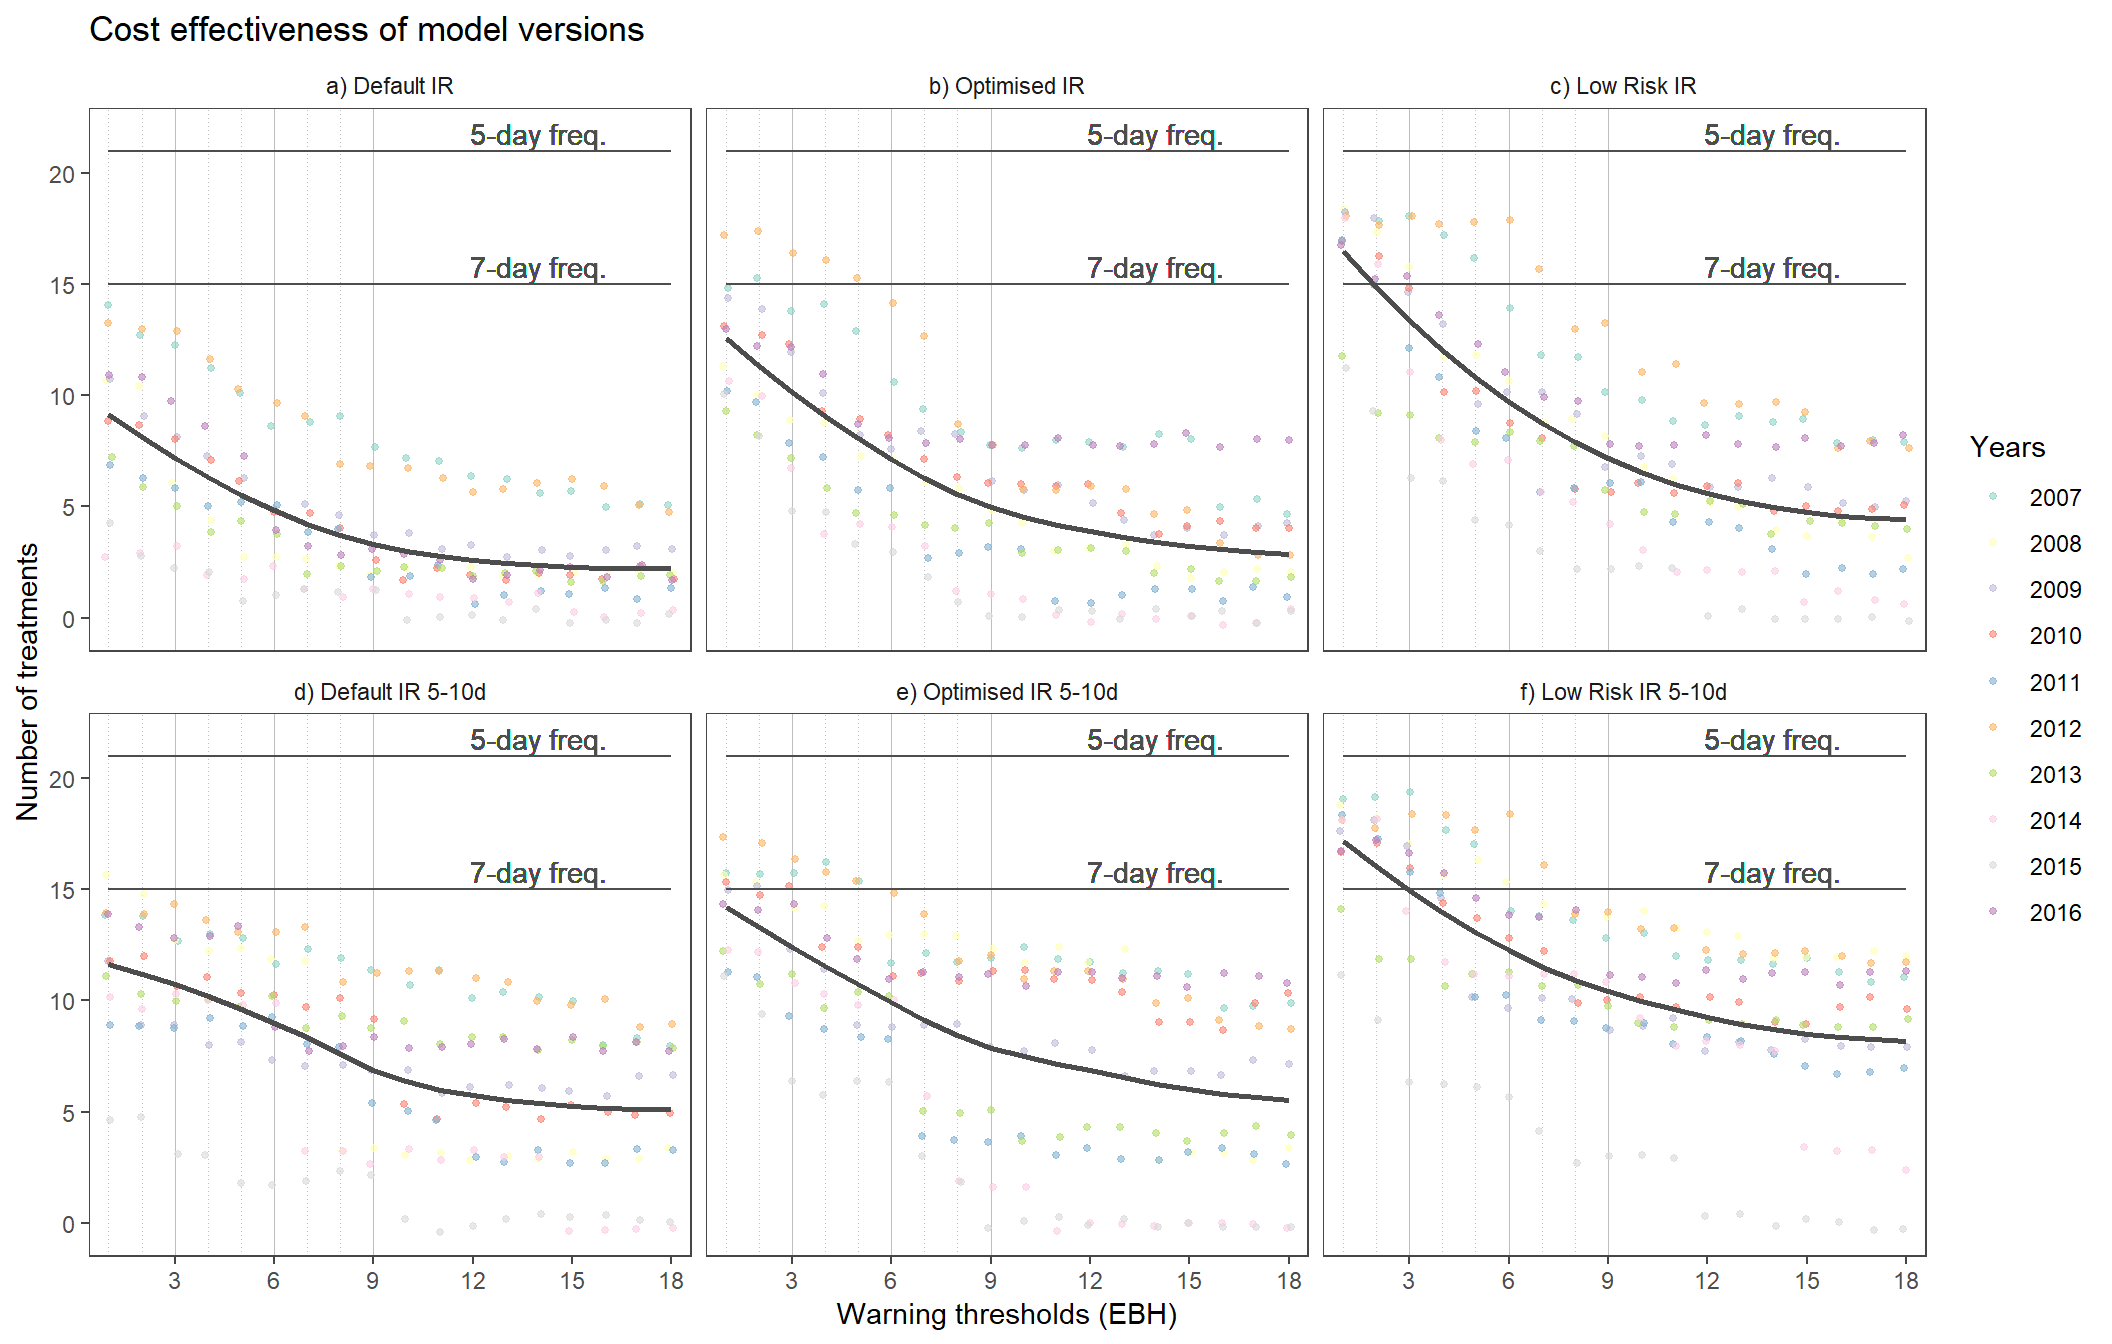
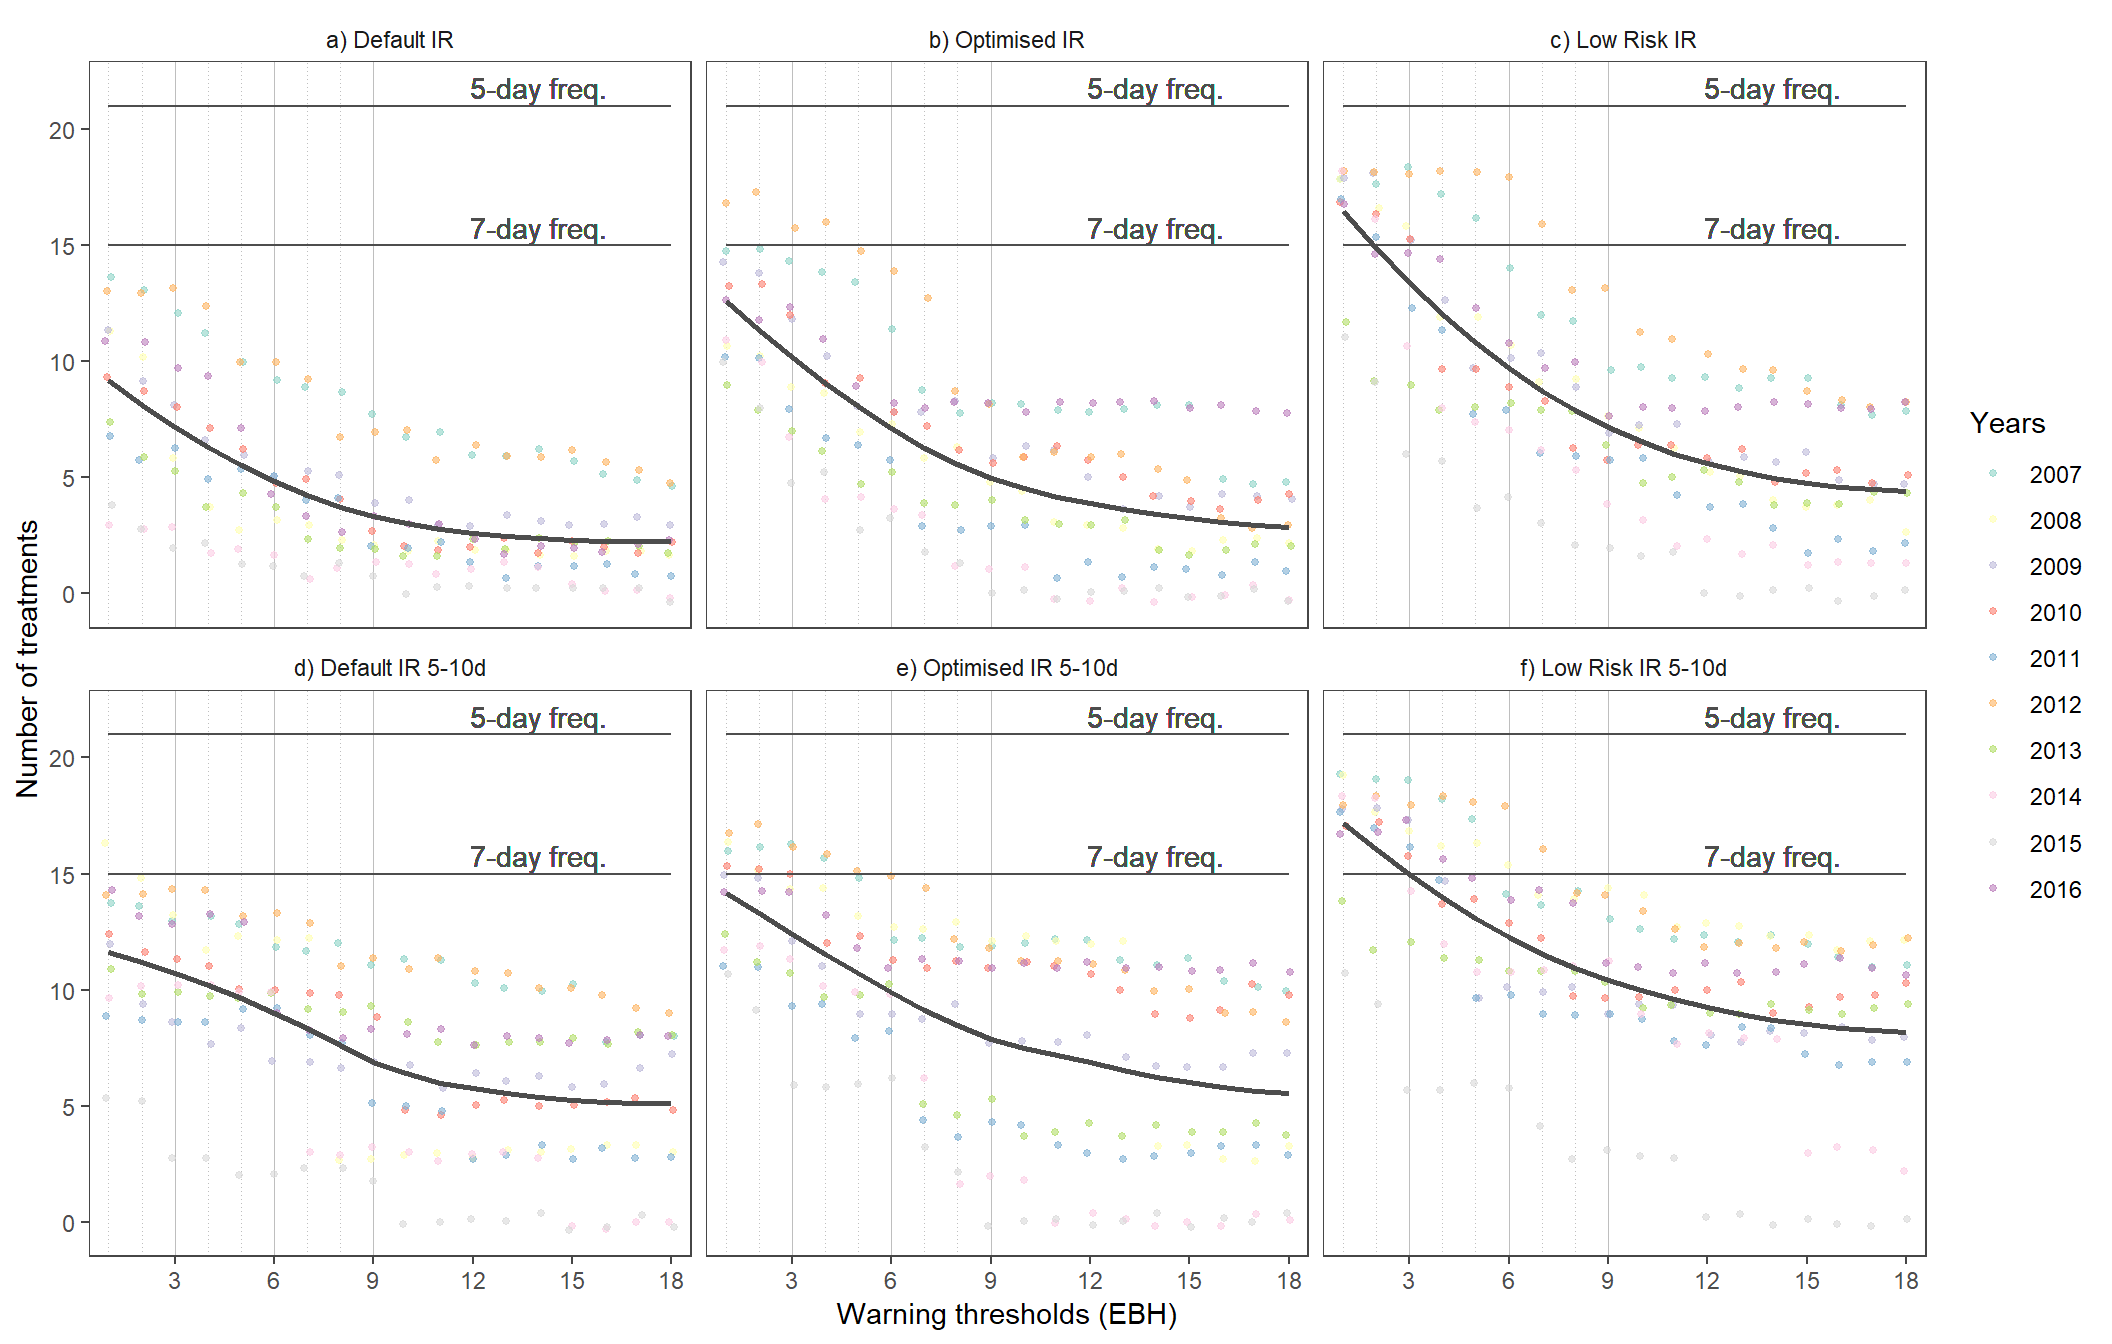
fungicide tereatment new plot for dose reduction overall

diff --git a/docs/FungicideTreatments.html b/docs/FungicideTreatments.html
@@ -840,7 +840,7 @@ clusterEvalQ(cl, library(&quot;tidyverse&quot;, quietly = TRUE, verbose = FALSE)
 },
 cl = cl)
 begin - Sys.time() #check the duration of the pcontrol_evaless in the console</code></pre>
-<pre><code>## Time difference of -4.547409 secs</code></pre>
+<pre><code>## Time difference of -4.987236 secs</code></pre>
 <pre class="r"><code>stopCluster(cl)</code></pre>
 <p>Melt the data frame.</p>
 <pre class="r"><code>control_eval_long &lt;-
@@ -982,7 +982,7 @@ control_eval_long %&gt;%
               color = gray.colors(2)[1],
               aes(group = 1)) +
   facet_wrap(~ programme, ncol = 3) +
-  ggtitle(&quot;Cost effectiveness of model versions&quot;) +
+  # ggtitle(&quot;Cost effectiveness of model versions&quot;) +
   
   xlab(&quot;Warning thresholds (EBH)&quot;) +
   ylab(&quot;Number of treatments&quot;) +
@@ -1169,7 +1169,7 @@ dosedf %&gt;%
     position = position_dodge(0.9),
     size = 2.9
   ) +
-  scale_fill_brewer(&quot;Model&quot;, palette = &quot;Dark2&quot;) +
+  scale_fill_brewer(&quot;Model:&quot;, palette = &quot;Dark2&quot;) +
   theme_article() +
   facet_grid(~ year_var, scales = &quot;free&quot;) +
   scale_y_continuous(limits = c(0, 1)) +
@@ -1185,19 +1185,9 @@ dosedf %&gt;%
     axis.ticks.x = element_blank()
   )
 p1</code></pre>
-<p><img src="images/unnamed-chunk-9-1.png" width="672" /></p>
+<p><img src="images/dose_reduction_each_year-1.png" width="672" /></p>
 <p>Now, let us make some summaries to see if we can reduce the number of treatments and fungicide usage based on the model outputs.</p>
-<pre class="r"><code>SummaryTwo &lt;- function(x) {
-  data.frame(
-    n = length(x),
-    min = min(x),
-    median = as.numeric(median(x)),
-    mean = mean(x),
-    sd = sd(x),
-    max = max(x)
-  )
-}
-p2 &lt;- 
+<pre class="r"><code>dose_summary &lt;- 
 dosedf %&gt;%
   dplyr::select(-(&quot;treat_week&quot;)) %&gt;%
   reshape2::melt(id = &quot;year_var&quot;,
@@ -1217,16 +1207,20 @@ dosedf %&gt;%
                                    &quot;Optimised IR&quot;,
                                    &quot;Low Risk IR&quot;))) %&gt;%
   group_by(year_var, model) %&gt;%
-  do(Summary(.$dose)) %&gt;%
-  dplyr::select(-c(&quot;n&quot;, &quot;treatments&quot;)) %&gt;%
+  do(Summary(.$dose))
+  
+p2 &lt;- 
+dose_summary %&gt;% 
   group_by(model) %&gt;%
-  do(., SummaryTwo(.$dose)) %&gt;%
-  ggplot(aes(
-    x = model,
-    y = mean,
-    fill = model,
-    group = model
-  )) +
+  summarise(mean_trt = mean(treatments),
+            mean = mean(dose),
+            sd = sd(dose)) %&gt;% 
+ggplot(., aes(
+  x = model,
+  y = mean,
+  fill = model,
+  group = model
+)) +
   geom_bar(
     color = &quot;black&quot;,
     stat = &quot;identity&quot;,
@@ -1234,8 +1228,11 @@ dosedf %&gt;%
     width = 0.7
   ) +
   geom_errorbar(aes(ymin = mean - sd,
-                    ymax = mean + sd), width = 0.2) +
-  scale_fill_brewer(&quot;Model&quot;, palette = &quot;Dark2&quot;) +
+                    ymax = mean + sd), 
+                width = 0.2,
+                color = &quot;gray&quot;) +
+  
+  scale_fill_brewer(&quot;Model:&quot;, palette = &quot;Dark2&quot;) +
   theme_article() +
   scale_y_continuous(limits = c(0, 1), breaks = seq(0, 1, 0.2)) +
   labs(x = &quot;Model&quot;,
@@ -1248,18 +1245,35 @@ dosedf %&gt;%
     legend.position = &quot;none&quot;,
     axis.text.x = element_blank(),
     axis.ticks.x = element_blank()
-  )  +
-  coord_equal(6 / 1)
-  p2 +
-    theme(legend.position = c(0.35, 0.85))</code></pre>
-<p><img src="images/unnamed-chunk-10-1.png" width="672" /></p>
+  ) 
+p2 +
+  theme(legend.position = c(0.35, 0.85))+
+  geom_text(
+    aes(label = mean_trt),
+    vjust = -0.3,
+    hjust =  0.4,
+    color = &quot;black&quot;,
+    position = position_dodge(0.9),
+    size = 6
+  ) +
+  coord_equal(6 / 1)</code></pre>
+<p><img src="images/dose_reduction_overall-1.png" width="672" /></p>
 <pre class="r"><code>p2 &lt;- 
 p2+
   labs(x = &quot;Overall&quot;, y= &quot;&quot;)+
   theme(axis.text = element_blank(),
-        axis.ticks.y = element_blank())
+        axis.ticks.y = element_blank())+
+  geom_text(
+    aes(label = mean_trt),
+    vjust = -0.3,
+    hjust =  0.4,
+    color = &quot;black&quot;,
+    position = position_dodge(0.9),
+    size = 2.9
+  ) +
+  coord_equal(1 / 1)
 ggarrange(p1, p2, ncol = 2, widths = c(10,1))</code></pre>
-<p><img src="images/unnamed-chunk-11-1.png" width="672" /></p>
+<p><img src="images/dose_reduction_all-1.png" width="672" /></p>
 <p>Packages used</p>
 <pre class="r"><code>sessionInfo()</code></pre>
 <pre><code>## R version 3.6.0 (2019-04-26)
@@ -1289,7 +1303,7 @@ ggarrange(p1, p2, ncol = 2, widths = c(10,1))</code></pre>
 ## [19] knitr_1.22        lubridate_1.7.4   data.table_1.12.2
 ## [22] readxl_1.3.1      forcats_0.4.0     stringr_1.4.0    
 ## [25] dplyr_0.8.1       purrr_0.3.2       readr_1.3.1      
-## [28] tidyr_0.8.3       tibble_2.1.1      ggplot2_3.1.1    
+## [28] tidyr_0.8.3       tibble_2.1.3      ggplot2_3.1.1    
 ## [31] tidyverse_1.2.1  
 ## 
 ## loaded via a namespace (and not attached):
@@ -1315,7 +1329,7 @@ ggarrange(p1, p2, ncol = 2, widths = c(10,1))</code></pre>
 ## [58] labeling_0.3       processx_3.3.0     tidyselect_0.2.5  
 ## [61] plyr_1.8.4         magrittr_1.5       R6_2.4.0          
 ## [64] DescTools_0.99.28  generics_0.0.2     multcompView_0.1-7
-## [67] multcomp_1.4-10    pillar_1.4.0       haven_2.1.0       
+## [67] multcomp_1.4-10    pillar_1.4.1       haven_2.1.0       
 ## [70] foreign_0.8-70     withr_2.1.2        survival_2.42-3   
 ## [73] modelr_0.1.4       crayon_1.3.4       rmarkdown_1.12.6  
 ## [76] grid_3.6.0         callr_3.2.0        digest_0.6.19     
